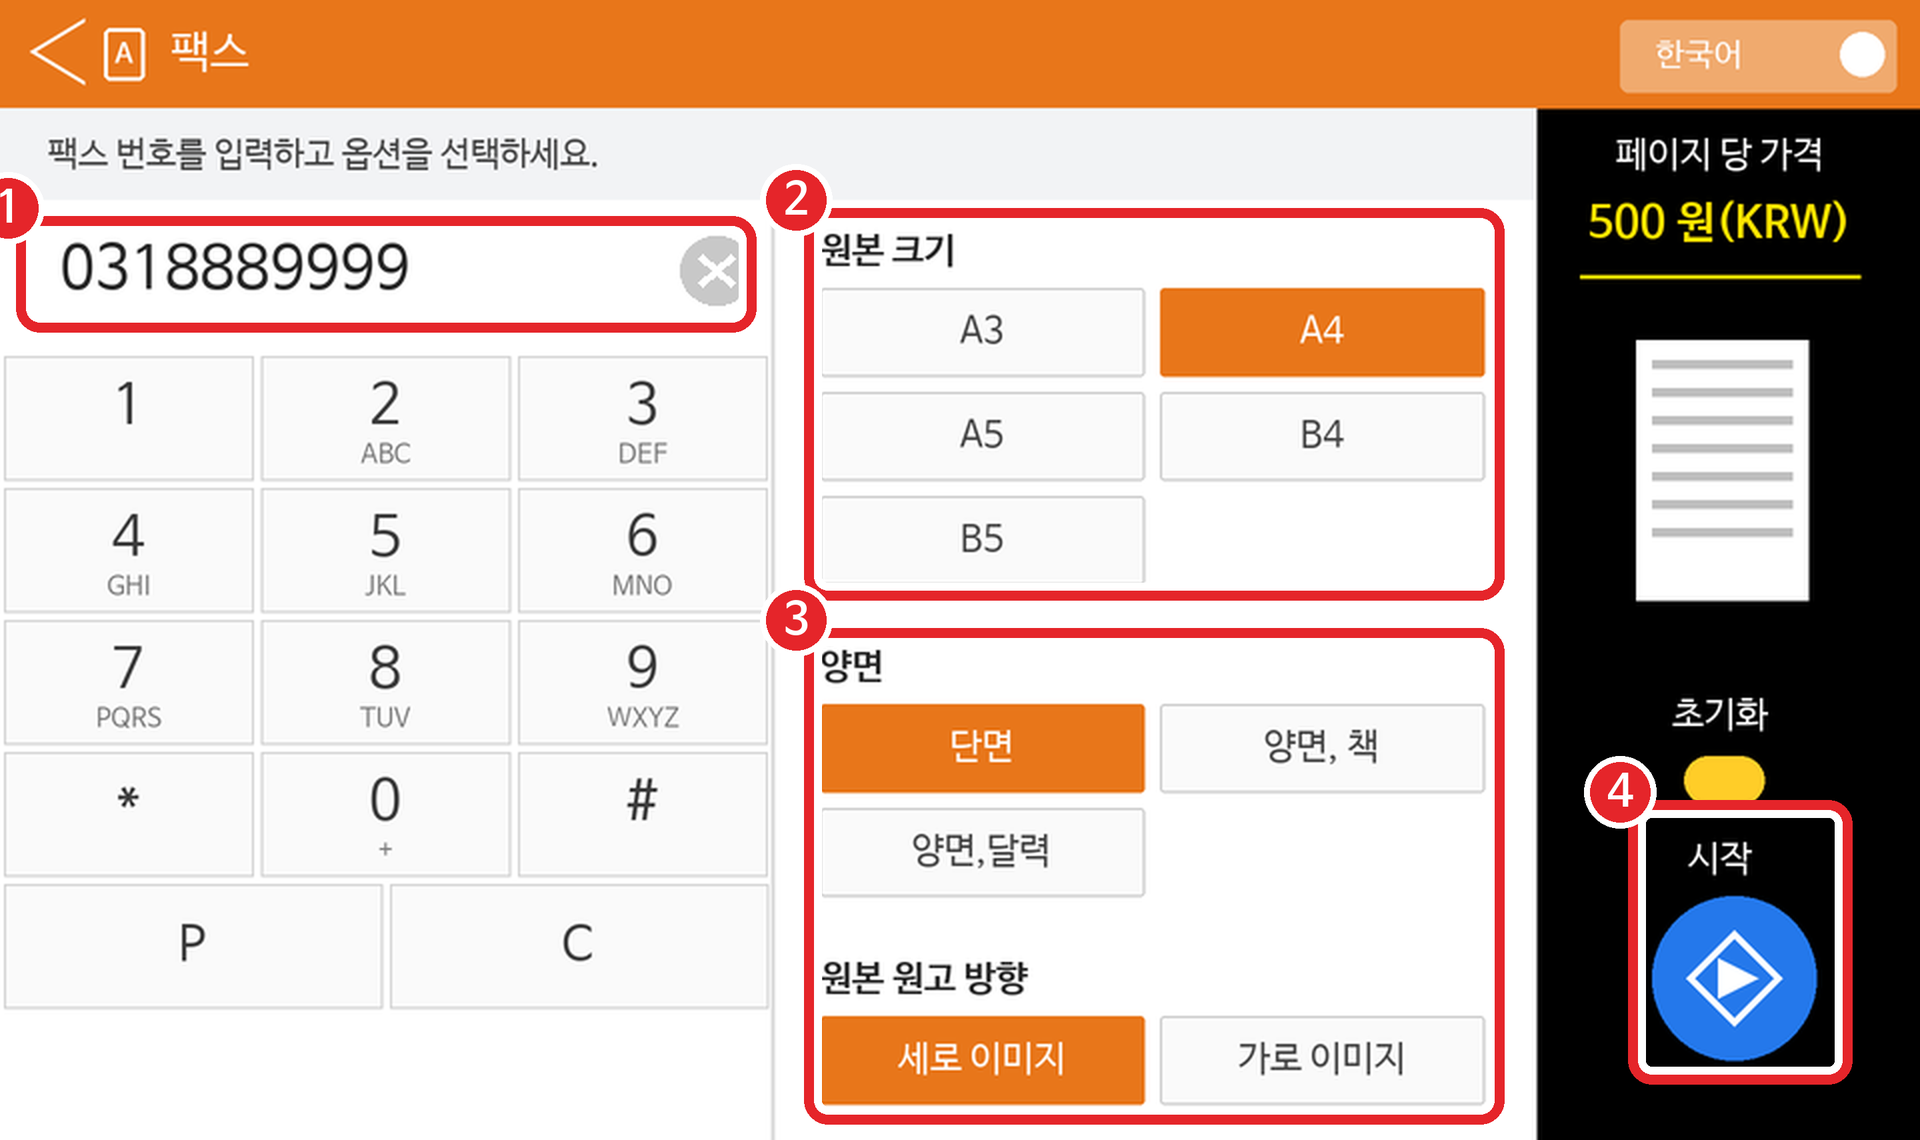
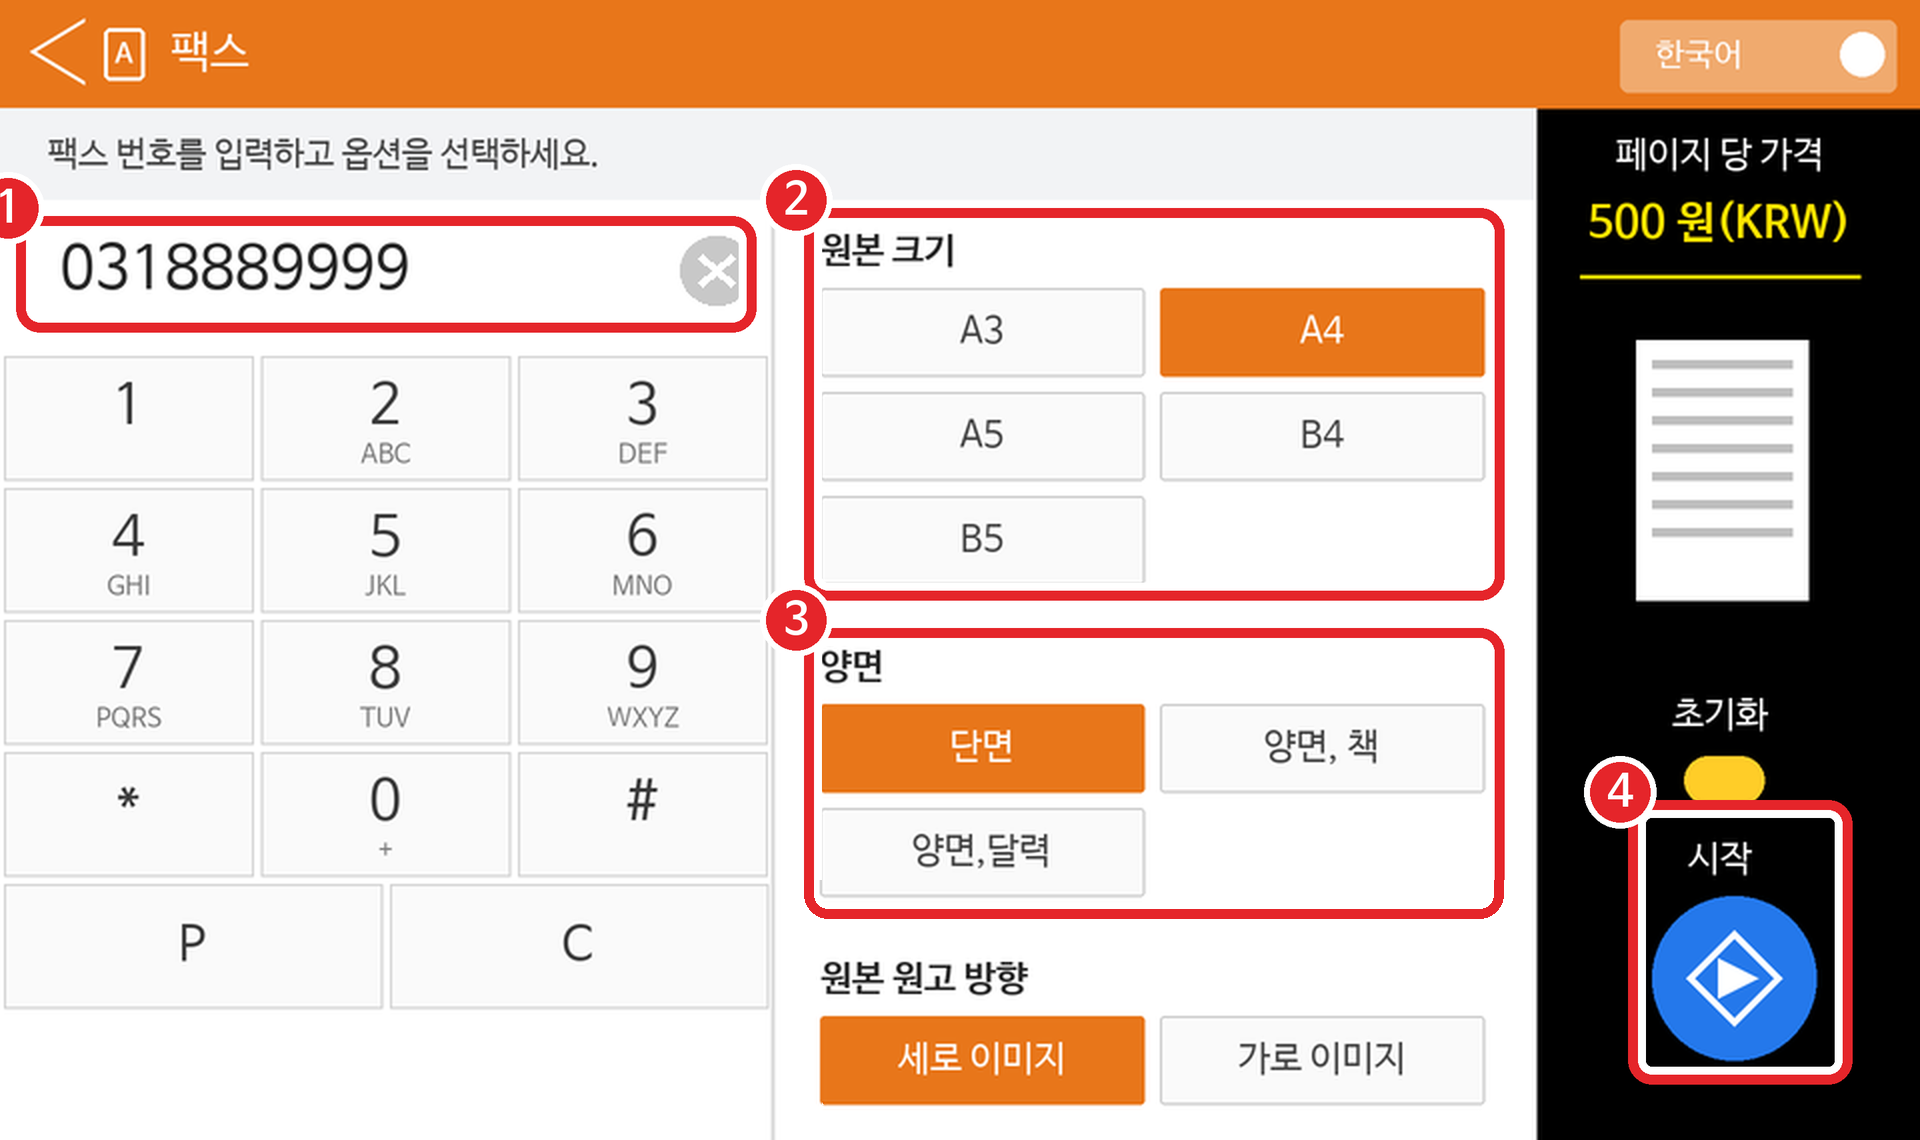
fix: 팩스 옵션 그림의 ③ 상자를 양면 칸까지만으로 줄임(원고 방향은 선택 안내에서 제외)

Changed region(s): [[0.4062, 0.7982, 0.7812, 1.0]]

diff --git a/guide-fax.html b/guide-fax.html
@@ -434,7 +434,7 @@ footer{background:#111827;color:rgba(255,255,255,.55);padding:60px 6%}
       </div>
       <div class="step">
         <div class="step-no">3</div>
-        <div class="step-fig"><a href="images/fax/fax-options.png" target="_blank" rel="noopener"><img src="images/fax/fax-options.png" alt="복합기 팩스 옵션 화면. 1번 받는 곳 팩스 번호 입력, 2번 원본 크기, 3번 양면, 4번 시작 버튼에 빨간 상자" loading="lazy" style="width:100%;border-radius:8px;border:1px solid var(--border);display:block"></a></div>
+        <div class="step-fig"><a href="images/fax/fax-options.png?v=3" target="_blank" rel="noopener"><img src="images/fax/fax-options.png?v=3" alt="복합기 팩스 옵션 화면. 1번 받는 곳 팩스 번호 입력, 2번 원본 크기, 3번 양면, 4번 시작 버튼에 빨간 상자" loading="lazy" style="width:100%;border-radius:8px;border:1px solid var(--border);display:block"></a></div>
         <div class="step-h">번호 · 옵션 선택 · 시작</div>
         <p class="step-p"><b>① 받는 곳 팩스 번호</b>를 <b>숫자만</b> 입력합니다. <b>② 원본 크기</b>(기본 A4, 원본이 B4, A3이면 변경), <b>③ 양면/단면</b> 등 옵션을 선택한 뒤 <b>④ [시작]</b>을 누르세요.</p><div class="mini-warn" style="margin-top:12px"><div class="mini-warn-h"><span class="x">!</span>지역번호가 있으면 꼭 같이 입력하세요</div><p class="mini-warn-p" style="padding-left:0">받는 곳 팩스 번호에 <b>지역번호가 있으면 반드시 지역번호까지 포함해서 모두 입력</b>하세요.<br>예) <b>031-888-9999</b> → <b>0318889999</b> 처럼 지역번호부터 <b>숫자만</b> 빠짐없이 눌러요.</p></div>
       </div>
